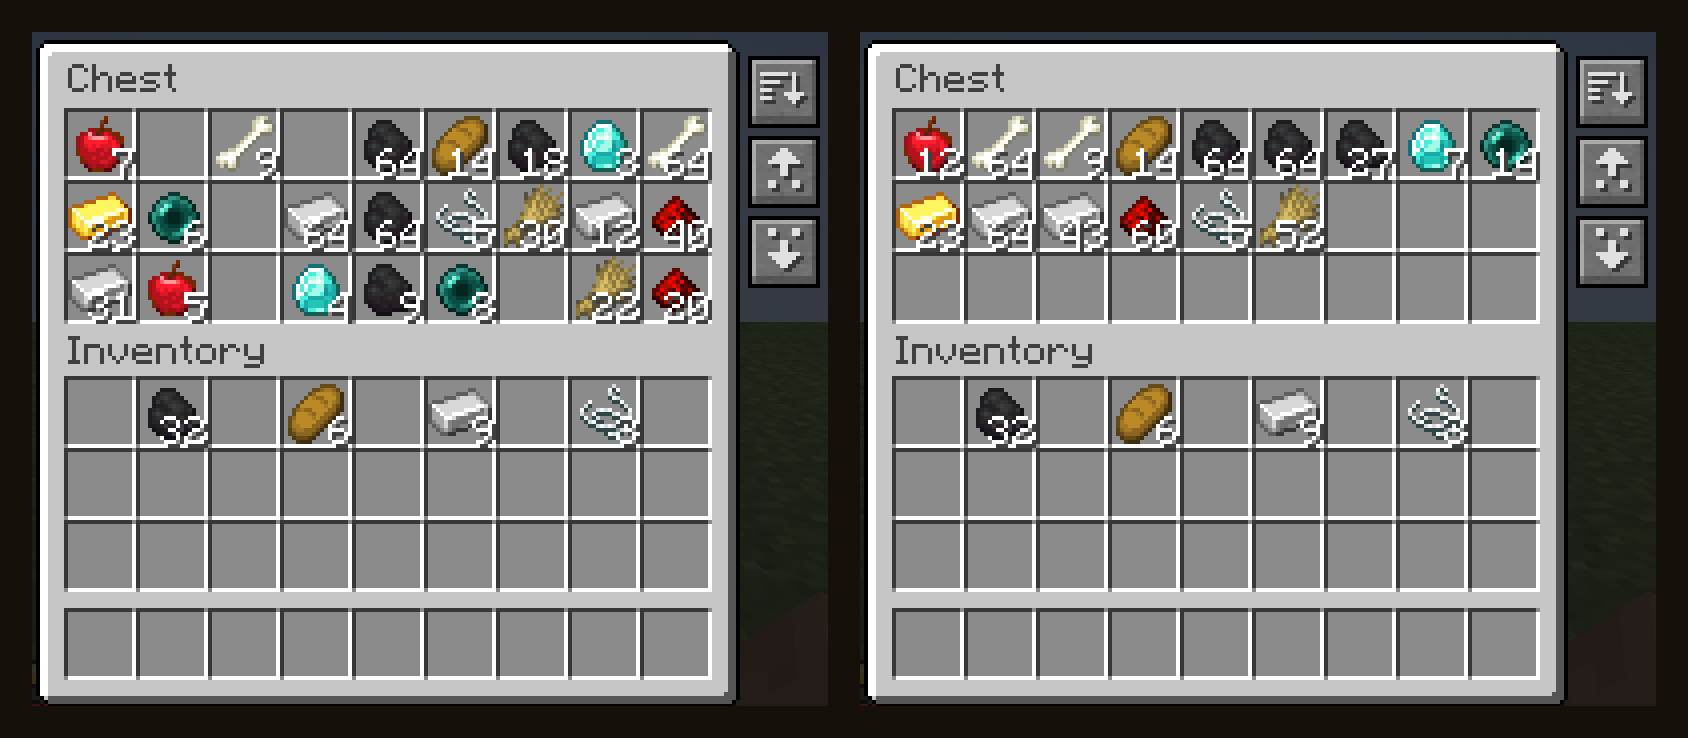
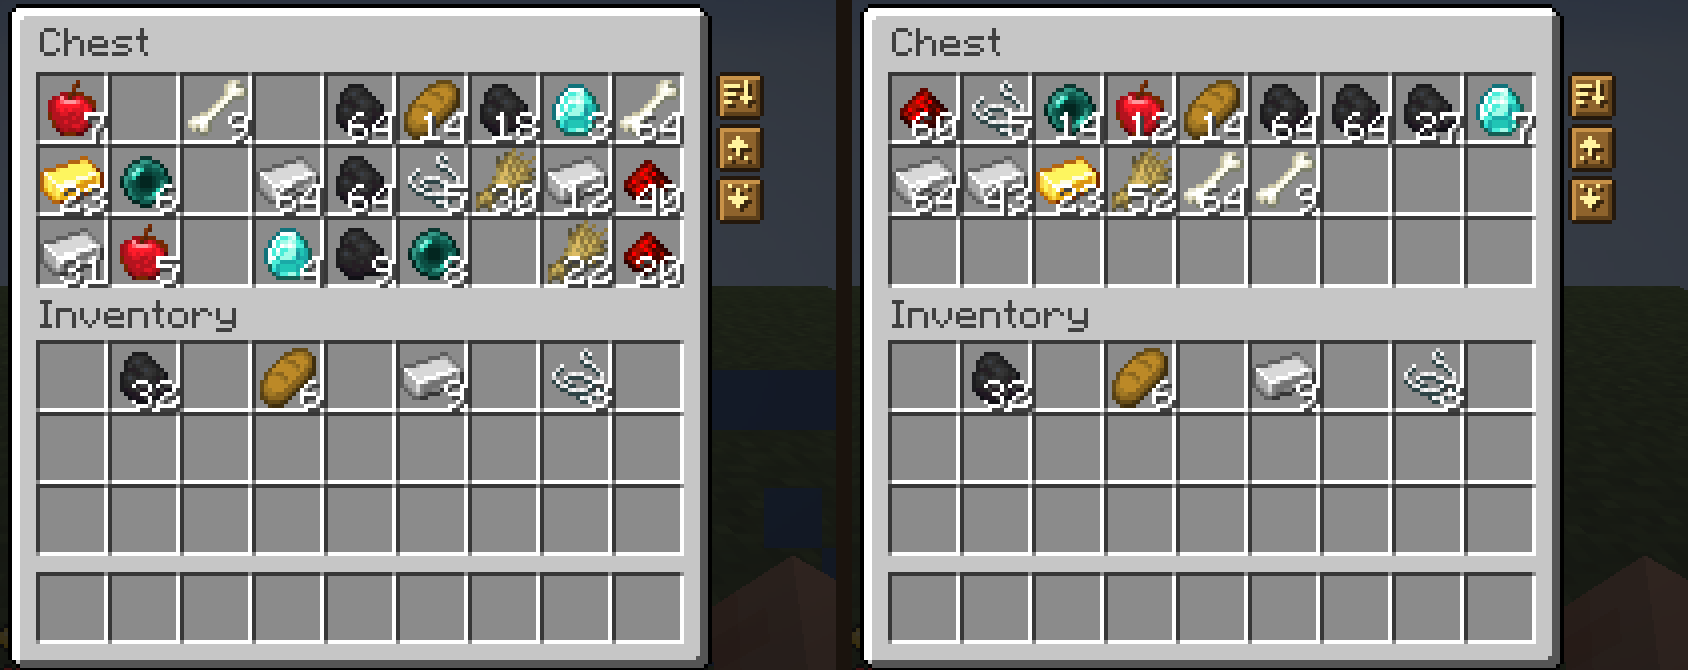
Refresh Minisort's art and README for the new buttons

diff --git a/README.md b/README.md
@@ -11,7 +11,7 @@
   <a href="https://discord.gg/HV5WgTksaB"><picture><source media="(prefers-color-scheme: dark)" srcset="https://shieldcn.dev/discord/1207469438719492176.svg?variant=secondary&amp;mode=dark" /><img alt="Discord" src="https://shieldcn.dev/discord/1207469438719492176.svg?variant=secondary&amp;mode=light" /></picture></a>
 </p>
 
-Minisort lets you sort storage, put matching items away, and collect supplies with three buttons: **Sort**, **Deposit**, and **Retrieve**. You can sort your inventory as well. Automatic hand refill replaces used-up stacks and broken tools with matching items you're carrying.
+Minisort lets you sort storage, put matching items away, and collect supplies with three buttons: **Sort**, **Deposit**, and **Retrieve**. You can sort your inventory as well. Automatic hand refill replaces used-up stacks and broken tools with matching items you're carrying. It fits into a modpack, too: storage from other mods gets the buttons, JEI and REI make room for them, and controller players can sort through Controlify.
 
 ## The buttons
 
@@ -29,6 +29,20 @@ Holding **Shift** removes the matching-item filter. **Shift-Deposit** stores as 
 
 Supported storage includes regular and ender chests, barrels, shulker boxes, dispensers, droppers, and hoppers. Screens for crafting, smelting, repairing, trading, and similar tasks don't have these controls.
 
+## Works with your modpack
+
+- **Storage from other mods.** Minisort recognizes storage by its slots, so other mods' chests and storage blocks get Sort, Deposit, and Retrieve without a patch for each mod. Machines, crafting grids, and storage-network terminals such as AE2 and Refined Storage are left alone, and their own controls and middle-click keep working. If the buttons show up somewhere they don't belong, add that menu's ID to **Turned Off In** in the settings.
+- **Modded items sort with their tabs.** The default order follows the creative inventory, so each mod's items land beside their own creative tab instead of piling up at the end.
+- **JEI and REI.** Their item lists and bookmarks make room for Minisort's buttons instead of drawing over them. Both work on Fabric and NeoForge.
+- **Controllers.** With Controlify, pressing the right stick sorts the container, or the side under the cursor. The cursor snaps to Minisort's buttons, and Controlify's Shift input turns them into their "everything" versions. Controlify runs on Fabric and NeoForge.
+- **Smooth Swapping.** When it's installed, Minisort leaves sort animations to it.
+- **Servers without Minisort.** You can still join them; the buttons stay hidden there.
+- **One file per version.** Each Minecraft version has a single download that runs on Fabric, Forge, and NeoForge.
+
+<p align="center">
+  <img src=".github/jei.png" alt="A chest with Minisort's buttons beside JEI's item list" width="100%" />
+</p>
+
 ## Sorting your inventory
 
 The inventory screen's **Sort** button arranges your 27 main inventory slots. Hotbar positions stay fixed.
@@ -42,6 +56,10 @@ The **Sort** key, R by default, does the same without a middle mouse button: it 
 Items sort in the creative inventory's order: building blocks first, then colored and natural blocks, tools, combat gear, food, and ingredients. Items from other mods follow their creative tabs too. An item that isn't on any tab sits next to related items.
 
 Pick **Registry ID** in the settings to sort alphabetically by item ID instead, which keeps each mod's items together.
+
+## Sort animation
+
+After a sort, each item glides from its old slot to its new one in about a tenth of a second, and merged stacks fly into the same slot. Only Minisort's own sorts animate; clicks and other mods' sorting don't. Turn it off with **Sort Animation** in the settings.
 
 ## Hand refill
 
@@ -64,7 +82,7 @@ Refill is disabled in Creative mode. Throwing items away and equipping armor don
 
 Use the mod list to reach Minisort's configuration screen. Fabric users need [Mod Menu](https://modrinth.com/mod/modmenu) for this entry.
 
-- Each player chooses their **Sort Mode** and button placement independently.
+- Each player chooses their **Sort Mode**, **Sort Animation**, **Button Style** (eight woods or Stone), and the menus Minisort is **Turned Off In**.
 - The server controls **Hand Refill**, with separate switches for blocks, tool breakage, food and drinks, and other items used by right-clicking. Disable **Search Hotbar First** to look for replacements in your main inventory before checking other hotbar slots.
 
 ## Installation

diff --git a/changelog.md b/changelog.md
@@ -11,11 +11,16 @@ and this project adheres to [Semantic Versioning](https://semver.org/spec/v2.0.0
 
 - Added safe, server-authoritative sorting controls to normal storage
   containers.
+- Added the controls to storage from other mods.
 - Added buttons that deposit or retrieve matching items, or everything with Shift.
 - Added inventory sorting that leaves the hotbar alone.
 - Added middle-click sorting outside creative mode.
 - Added a sort key, R by default.
 - Added a creative inventory sort order, used by default.
+- Added a sort animation.
+- Added a choice of button styles.
+- Added JEI and REI support that keeps their item lists clear of the buttons.
+- Added a Controlify binding for sorting.
 - Added automatic main-hand and off-hand refill for placed blocks, used-up
   items, and broken tools.
 - Added configurable refill categories and inventory search order.
